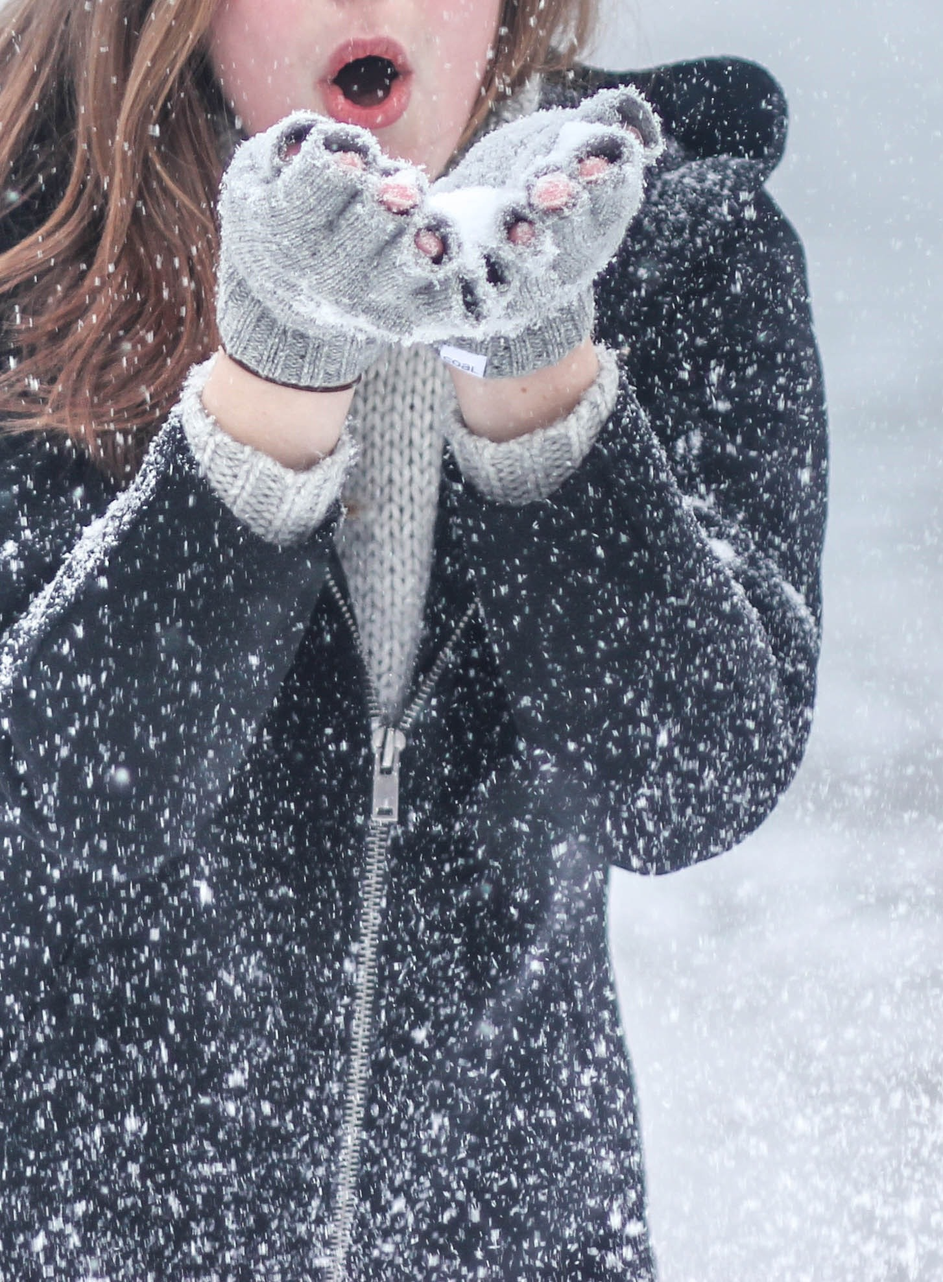
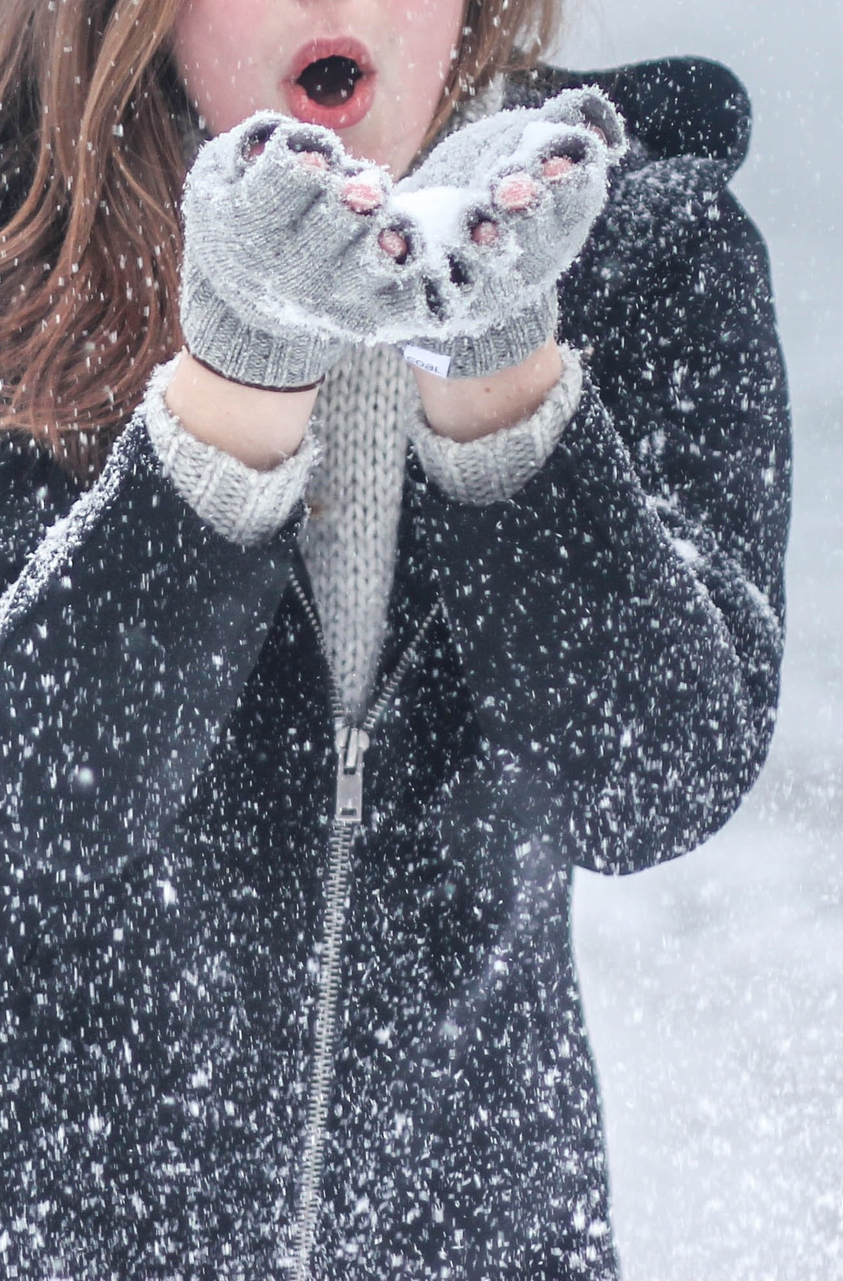
changed winter picture

diff --git a/index.html b/index.html
@@ -41,7 +41,7 @@
           <img src="media/rain umbrella.jpg" alt="rain umbrella" />
         </div>
         <div class="col">
-          <img src="media/windy bridge.jpg" alt="windy coat" />
+          <img src="media/winter snow.jpg" alt="winter snow" />
         </div>
       </div>
  
